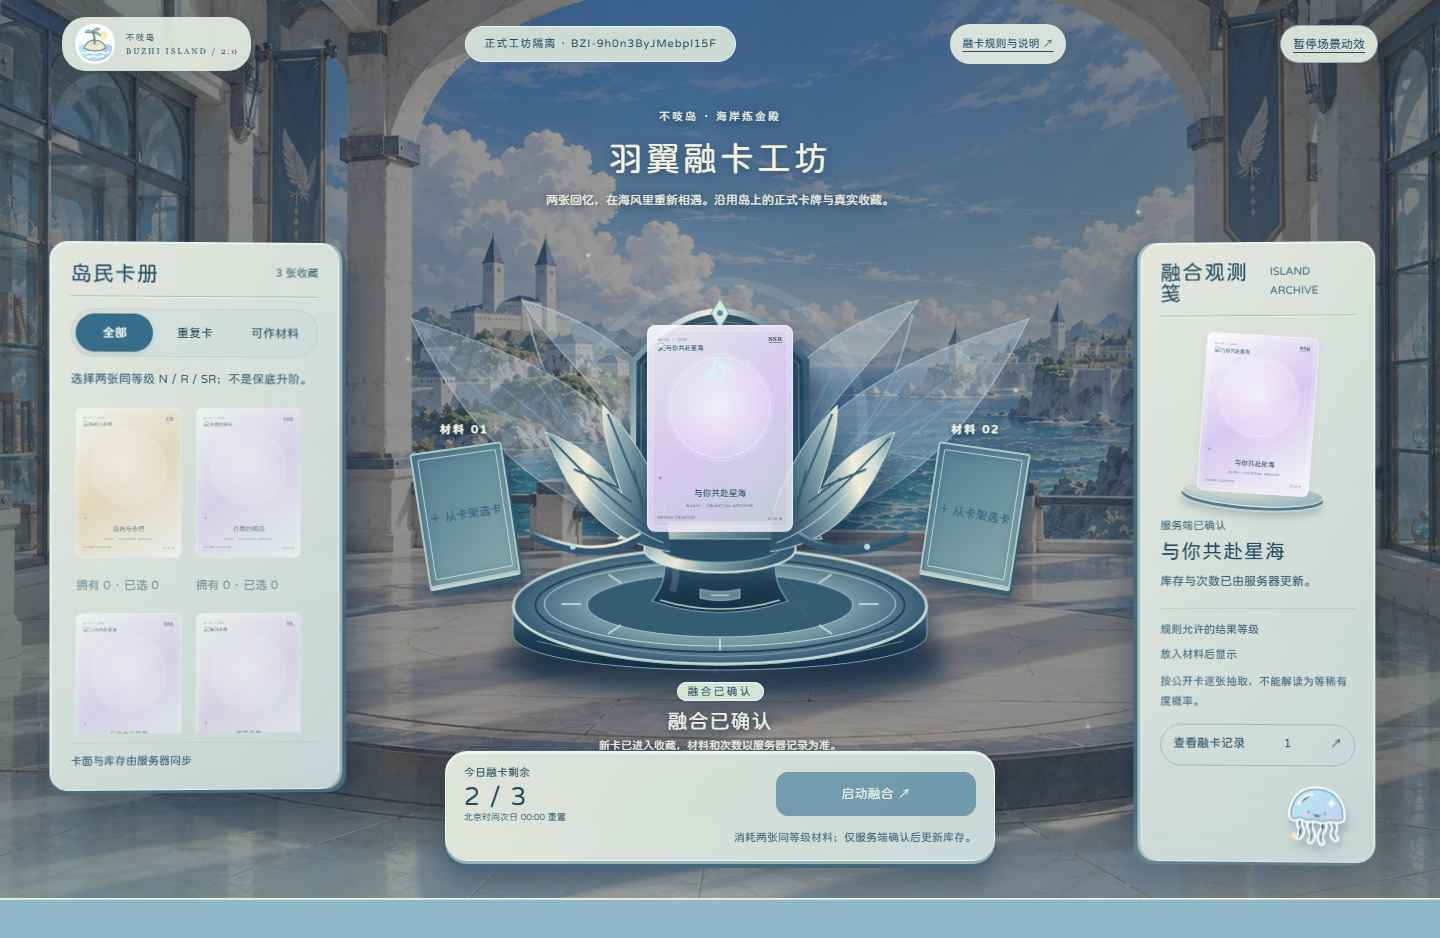
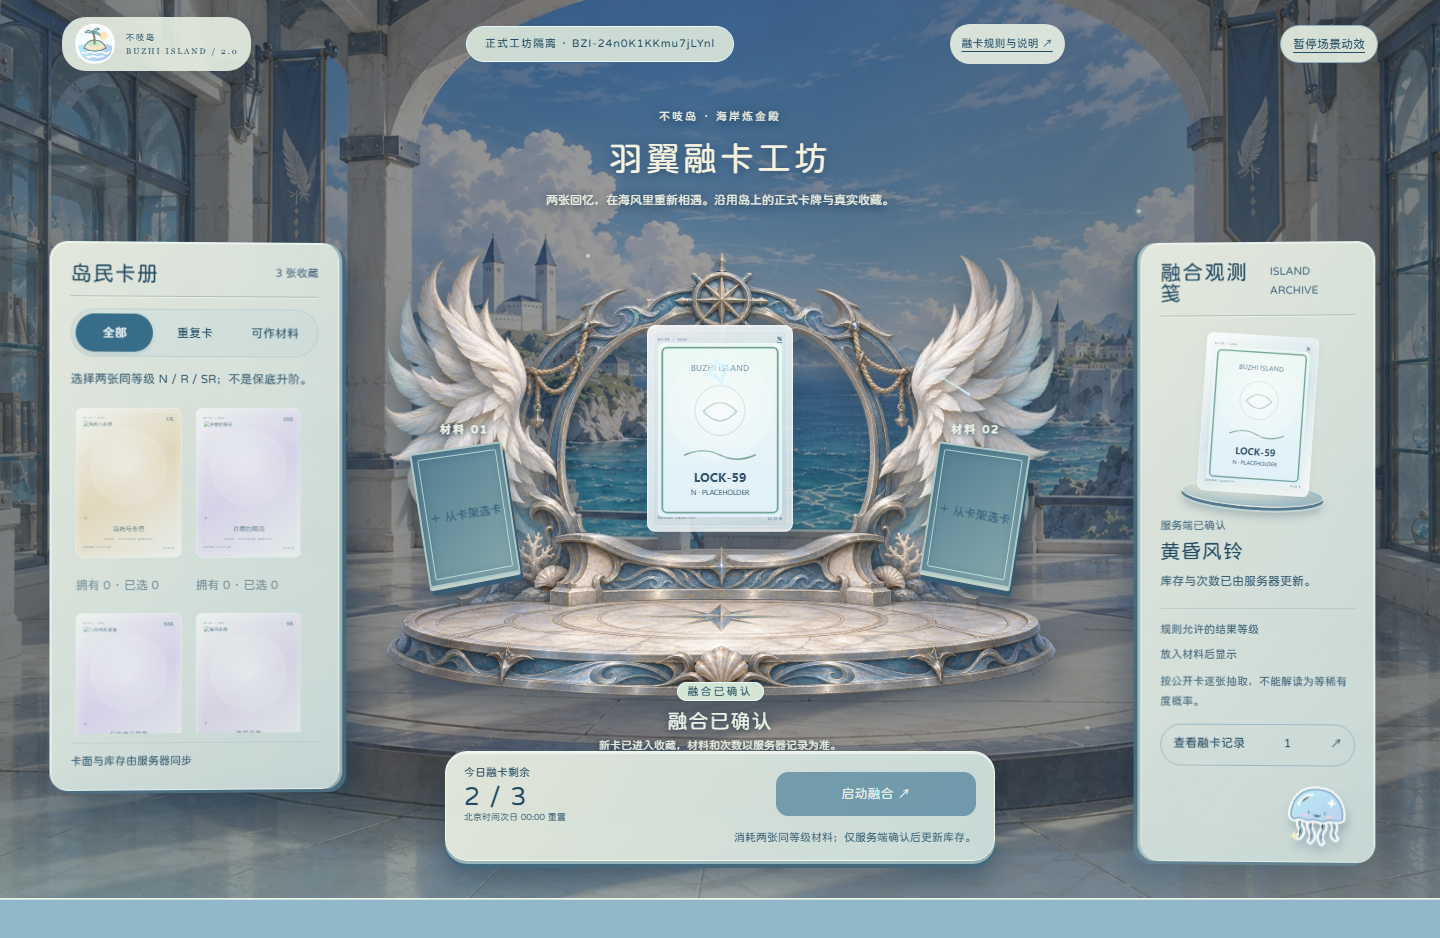
style: use painted feathered workshop device

diff --git a/ui-preview/workshop-visual-repair.js b/ui-preview/workshop-visual-repair.js
@@ -1,7 +1,7 @@
 /* Decorative feedback only. No network, card mapping, inventory or settlement. */
 (()=>{'use strict';const brand=document.querySelector('.brand');if(brand&&!brand.querySelector('img')){const wordmark=document.createElement('span');wordmark.className='brand-wordmark';wordmark.append(...brand.childNodes);const logo=document.createElement('img');logo.className='island-logo';logo.src='/assets/island-mark.svg';logo.alt='';brand.append(logo,wordmark)}
 const button=document.createElement('button');button.type='button';button.className='motion-control';button.textContent='暂停场景动效';button.setAttribute('aria-pressed','false');button.onclick=()=>{const paused=document.documentElement.classList.toggle('effects-paused');button.setAttribute('aria-pressed',String(paused));button.textContent=paused?'继续场景动效':'暂停场景动效'};document.querySelector('header').append(button);
-const device=document.createElement('img');device.className='ritual-device';device.src='/assets/wing-ritual-device.svg';device.alt='';device.setAttribute('aria-hidden','true');document.querySelector('.machine').prepend(device);
+const device=document.createElement('img');device.className='ritual-device';device.src='/assets/wing-ritual-device-painted.png';device.alt='';device.setAttribute('aria-hidden','true');document.querySelector('.machine').prepend(device);
[1 lines of base64/hex data omitted]
 const layer=document.createElement('div');layer.className='scene-motes';layer.setAttribute('aria-hidden','true');for(let i=0;i<14;i++){const p=document.createElement('i');p.style.setProperty('--x',(i*37%100)+'%');p.style.setProperty('--y',(i*23%100)+'%');p.style.setProperty('--delay',(-i*.43)+'s');layer.append(p)}document.body.prepend(layer);document.querySelectorAll('.fusion-particles i').forEach((p,i)=>p.style.setProperty('--delay',(-i*.073)+'s'));
 })();

diff --git a/ui-preview/workshop-visual-repair.css b/ui-preview/workshop-visual-repair.css
@@ -32,3 +32,6 @@ body.effects-paused *,body.effects-paused *::before,body.effects-paused *::after
 .machine>.device-caption{display:none}
 
 html.effects-paused *,html.effects-paused *::before,html.effects-paused *::after{animation-play-state:paused!important}
+
+/* Painted prop replaces the vector silhouette; original SVG remains available. */
+.ritual-device{height:450px;object-fit:contain;transform:none;filter:drop-shadow(0 17px 13px #10253d66)}.machine:after{opacity:.3}.device-halo,.machine>.wing-layer{display:none}

diff --git a/docs/admin-fusion/VISUAL-REPAIR-20261105.md b/docs/admin-fusion/VISUAL-REPAIR-20261105.md
@@ -28,3 +28,7 @@ workshop-live.js及official-card.js/css未改，完整文件哈希记录visual-r
 验证：node tests/winged-workshop-browser.cjs 在隔离 SQLite 中通过 1440/390 两个视口；一张材料禁用、两张有效材料可直接启动；服务端成功但响应丢失后刷新重试仅保留一次融合记录；动效暂停、减少动效和无横向溢出通过。node --check 两个修改脚本通过。截图为 winged-repaired-1440.png、winged-repaired-390.png。测试截图无卡面上传的合成环境不等于正式卡面缺失。
 
 本轮未部署、未访问生产库。手机观测笺空间仍偏窄，后续视觉验收可继续调整，不属于本轮业务校验通过的保证。
+
+
+### 绘制版装置
+引入 Work 最新 wing-ritual-device-painted.png，装饰脚本仅替换装置资源 URL；使用 object-fit:contain，隐藏旧 wing-layer 防止叠加。原 SVG 保留回退。未改业务控制器及正式环境。
